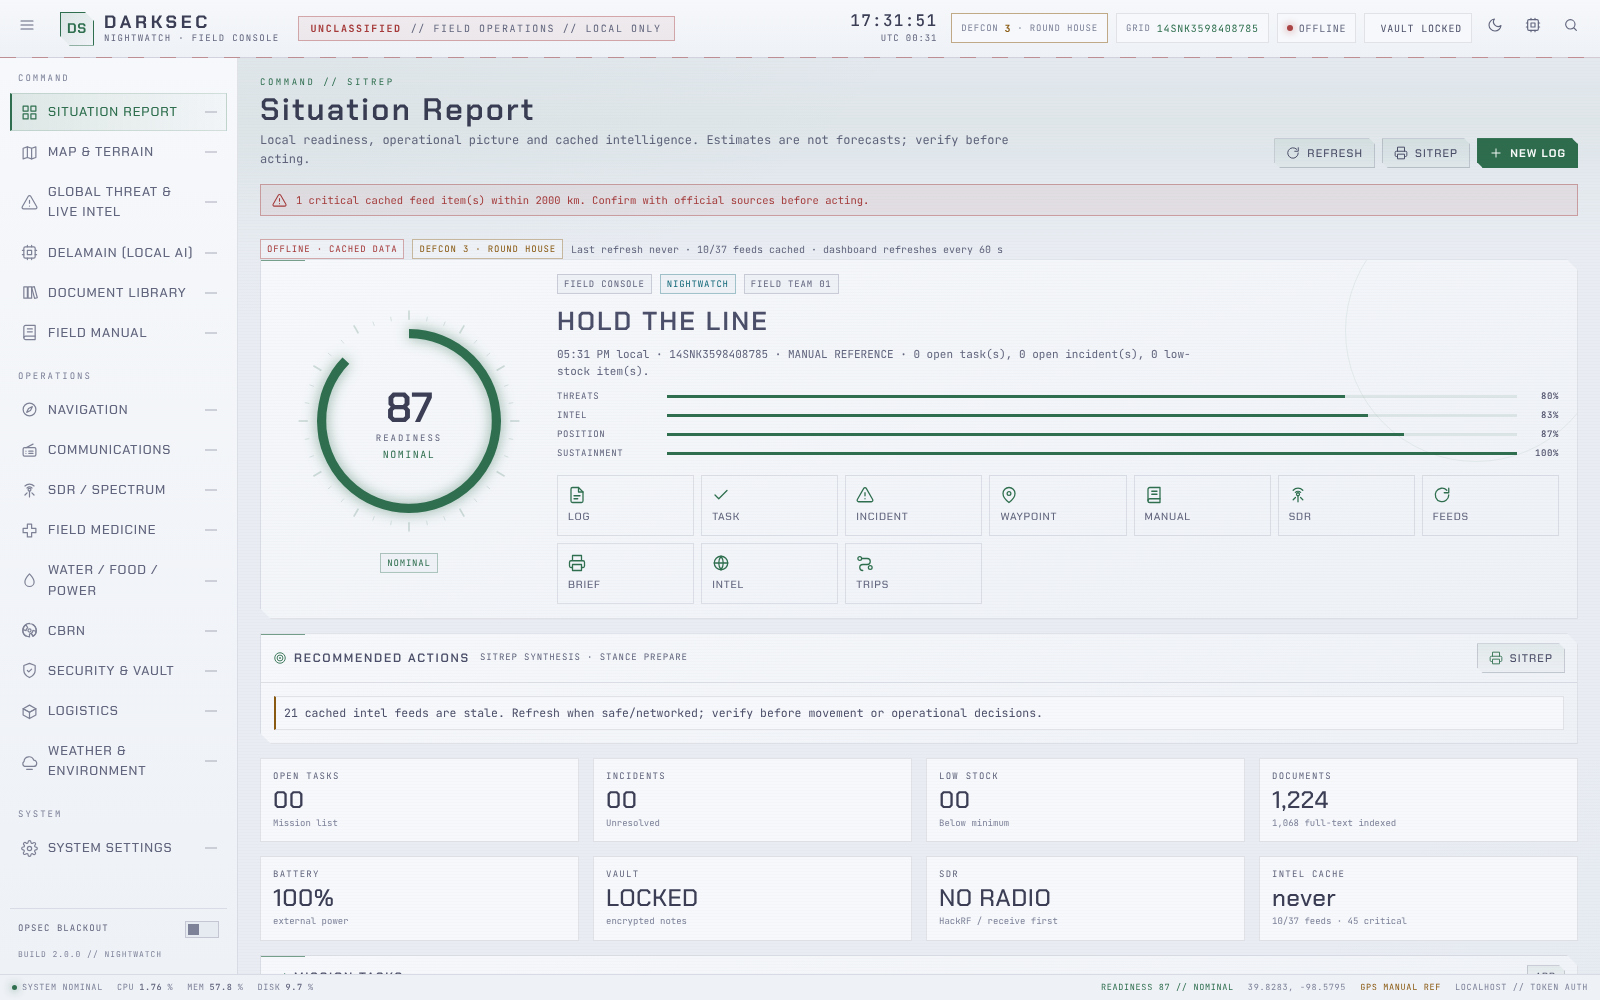
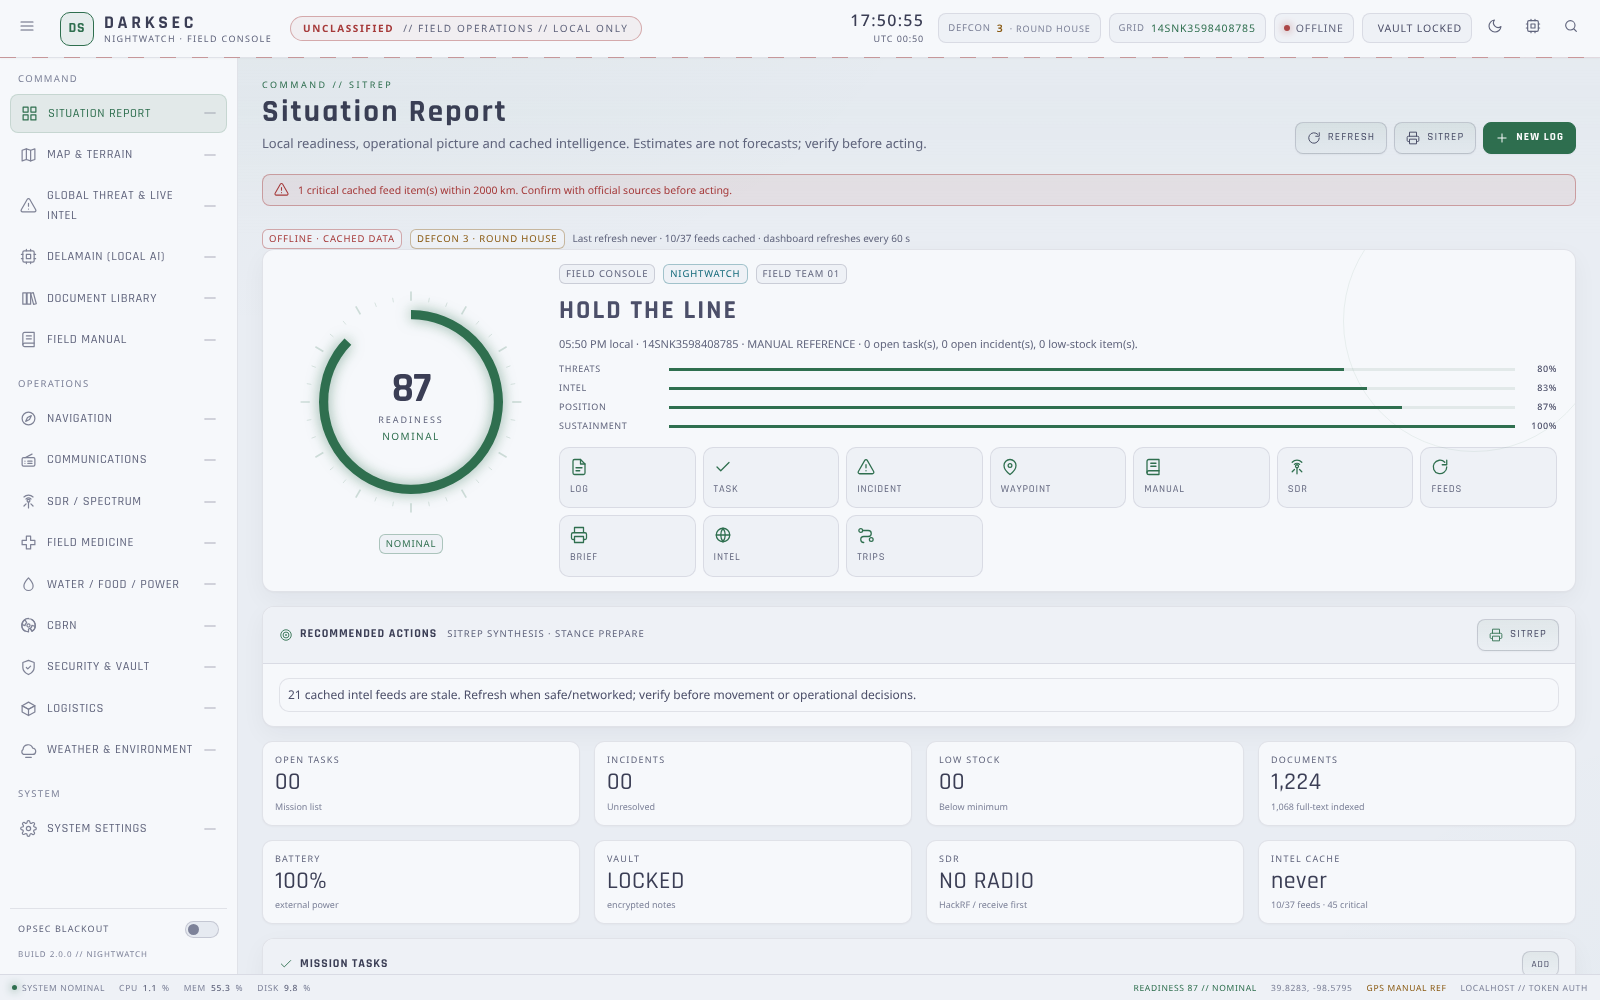
Redesign light mode as a clean card workspace
- Use a readable system sans for body text, Rajdhani/clean sans for headings, and keep monospace for coordinates and code.
- Replace angular panels/buttons with rounded cards, soft shadows, card headers, pill controls and rounded inputs.
- Round the top bar pills, brand mark, modals, command palette, toasts, callouts and quick actions.
- Hide the light-mode grid, reduce scanlines to a faint texture, soften the sidebar active state and add light scrollbars.
- Update the Daylight screenshot.

diff --git a/ui/css/app.css b/ui/css/app.css
@@ -1518,3 +1518,158 @@ html[data-scheme="light"] .settings-details { background: rgba(0, 0, 0, .015); }
 @media (max-width: 900px) { .settings-identity-layout { grid-template-columns: 1fr; } }
 .settings-assistant-layout { display: grid; grid-template-columns: 1.15fr 1fr; gap: 24px; align-items: start; }
 @media (max-width: 1250px) { .settings-assistant-layout { grid-template-columns: 1fr; } }
+
+/* --------------------------------------------------- light workspace polish */
+html[data-scheme="light"] {
+  --font-mono: "Inter", "SF Pro Text", "Segoe UI", system-ui, -apple-system, "Noto Sans", sans-serif;
+  --font-head: "Rajdhani", "Inter", "Segoe UI", system-ui, sans-serif;
+  --r: 8px;
+}
+html[data-scheme="light"] .mono,
+html[data-scheme="light"] code,
+html[data-scheme="light"] pre,
+html[data-scheme="light"] .coord-block,
+html[data-scheme="light"] input[type="number"],
+html[data-scheme="light"] textarea.mono {
+  font-family: "JetBrains Mono", ui-monospace, "Cascadia Code", Consolas, monospace;
+}
+html[data-scheme="light"] .fx-grid { display: none; }
+html[data-scheme="light"] .fx-scan {
+  opacity: .08; mix-blend-mode: normal;
+  background: repeating-linear-gradient(to bottom,
+    rgba(0,0,0,0) 0 1px, rgba(20,30,25,.035) 1px 2px, rgba(0,0,0,0) 2px 3px);
+}
+@media (min-width: 861px) {
+  html[data-scheme="light"] .main { padding: 20px 24px 44px; }
+}
+html[data-scheme="light"] .view-head { margin-bottom: 20px; }
+html[data-scheme="light"] .view-desc { font-size: 12.5px; line-height: 1.6; }
+
+/* header chrome */
+html[data-scheme="light"] .topbar {
+  background: var(--panel);
+  border-bottom: 1px solid var(--line);
+  box-shadow: 0 1px 2px rgba(16,24,40,.03);
+}
+html[data-scheme="light"] .sidebar {
+  background: var(--panel);
+  border-right: 1px solid var(--line);
+}
+html[data-scheme="light"] .statusbar {
+  background: var(--panel-2);
+  border-top: 1px solid var(--line);
+}
+html[data-scheme="light"] .brand-mark {
+  clip-path: none; border-radius: 10px;
+  background: rgba(var(--acc-rgb), .08);
+}
+html[data-scheme="light"] .classification { border-radius: 999px; background: rgba(var(--red-rgb), .05); }
+html[data-scheme="light"] .top-pill { border-radius: 8px; background: var(--panel-2); border-color: var(--line); }
+html[data-scheme="light"] .icon-btn { border-radius: 8px; }
+html[data-scheme="light"] .icon-btn:hover { background: var(--panel-2); border-color: transparent; }
+
+/* side navigation */
+html[data-scheme="light"] .nav a {
+  border-radius: 8px; border-left: 0; padding: 9px 10px;
+  font-size: 12px; letter-spacing: .05em;
+}
+html[data-scheme="light"] .nav a:hover { background: var(--panel-2); }
+html[data-scheme="light"] .nav a.active {
+  background: rgba(var(--acc-rgb), .10);
+  border: 1px solid rgba(var(--acc-rgb), .16);
+  color: var(--acc);
+}
+html[data-scheme="light"] .nav a .nav-badge { border-radius: 999px; }
+
+/* cards */
+html[data-scheme="light"] .panel {
+  clip-path: none; border-radius: 12px; border: 1px solid var(--line);
+  background: var(--panel);
+  box-shadow: 0 1px 2px rgba(16,24,40,.03), 0 8px 24px rgba(16,24,40,.045);
+}
+html[data-scheme="light"] .panel::before { display: none; }
+html[data-scheme="light"] .panel-head {
+  padding: 12px 16px; border-bottom: 1px solid var(--line);
+  background: var(--panel-2); border-radius: 11px 11px 0 0;
+}
+html[data-scheme="light"] .panel-head h2,
+html[data-scheme="light"] .panel-head h3 { color: var(--text-strong); letter-spacing: .08em; }
+html[data-scheme="light"] .panel-body { padding: 14px 16px; }
+html[data-scheme="light"] .panel-body.tight { padding: 10px; }
+html[data-scheme="light"] .stat,
+html[data-scheme="light"] .ind,
+html[data-scheme="light"] .list-item {
+  background: var(--panel); border: 1px solid var(--line); border-radius: 10px;
+}
+html[data-scheme="light"] .stat { box-shadow: 0 1px 2px rgba(16,24,40,.03); }
+html[data-scheme="light"] .list-item:hover { background: var(--panel-2); border-color: var(--line-strong); }
+html[data-scheme="light"] .badge { border-radius: 6px; background: var(--panel-2); }
+
+/* controls */
+html[data-scheme="light"] .btn {
+  clip-path: none; border-radius: 8px; min-height: 32px;
+  box-shadow: 0 1px 2px rgba(16,24,40,.04);
+}
+html[data-scheme="light"] .btn-sm { min-height: 26px; }
+html[data-scheme="light"] .btn-ghost { background: var(--panel); }
+html[data-scheme="light"] .input,
+html[data-scheme="light"] .select,
+html[data-scheme="light"] .textarea {
+  background-color: var(--panel); border-color: var(--line-strong);
+  border-radius: 8px; min-height: 34px;
+}
+html[data-scheme="light"] .input:focus,
+html[data-scheme="light"] .select:focus,
+html[data-scheme="light"] .textarea:focus {
+  border-color: var(--acc);
+  box-shadow: 0 0 0 3px rgba(var(--acc-rgb), .12);
+}
+
+/* overlays */
+html[data-scheme="light"] .modal {
+  clip-path: none; border-radius: 16px; background: var(--panel);
+  box-shadow: 0 24px 64px rgba(16,24,40,.18);
+}
+html[data-scheme="light"] .palette {
+  clip-path: none; border-radius: 14px; background: var(--panel);
+  box-shadow: 0 24px 64px rgba(16,24,40,.18);
+}
+html[data-scheme="light"] .modal-backdrop,
+html[data-scheme="light"] .palette-backdrop { background: rgba(15,23,42,.26); }
+html[data-scheme="light"] .toast { border-radius: 10px; background: var(--panel); }
+html[data-scheme="light"] .switch { border-radius: 999px; }
+html[data-scheme="light"] .switch span { border-radius: 50%; }
+
+/* scrollbars */
+html[data-scheme="light"] *::-webkit-scrollbar { width: 10px; height: 10px; }
+html[data-scheme="light"] *::-webkit-scrollbar-track { background: transparent; }
+html[data-scheme="light"] *::-webkit-scrollbar-thumb {
+  background: #c9d2dd; border: 2px solid transparent;
+  background-clip: content-box; border-radius: 999px;
+}
+html[data-scheme="light"] *::-webkit-scrollbar-thumb:hover { background: #aeb9c7; background-clip: content-box; }
+html[data-scheme="light"] .quick-action {
+  border-radius: 10px; background: var(--panel-2); border-color: var(--line);
+}
+html[data-scheme="light"] .quick-action:hover { background: var(--panel-3); }
+html[data-scheme="light"] .alert-strip,
+html[data-scheme="light"] .callout,
+html[data-scheme="light"] .tx-warning { border-radius: 8px; }
+html[data-scheme="light"] .phone-gps-qr { border-radius: 10px; }
+html[data-scheme="light"] .field > label,
+html[data-scheme="light"] .label { font-size: 10px; letter-spacing: .08em; }
+html[data-scheme="light"] .hint { font-size: 10.5px; }
+html[data-scheme="light"] .side-label { font-size: 9.5px; letter-spacing: .14em; }
+html[data-scheme="light"] .panel-head .sub { font-size: 9.5px; }
+html[data-scheme="light"] .list-item .li-title { font-size: 12px; }
+html[data-scheme="light"] .list-item .li-sub { font-size: 10px; }
+html[data-scheme="light"] .btn { font-size: 11px; }
+html[data-scheme="light"] .btn-sm { font-size: 9.5px; }
+html[data-scheme="light"] .badge { font-size: 9.5px; }
+html[data-scheme="light"] .top-pill { font-size: 10.5px; }
+html[data-scheme="light"] .pill-label { font-size: 9.5px; }
+html[data-scheme="light"] .view-desc { font-size: 13px; }
+html[data-scheme="light"] .nav a { font-size: 12.5px; }
+html[data-scheme="light"] .input,
+html[data-scheme="light"] .select,
+html[data-scheme="light"] .textarea { font-size: 12.5px; }
